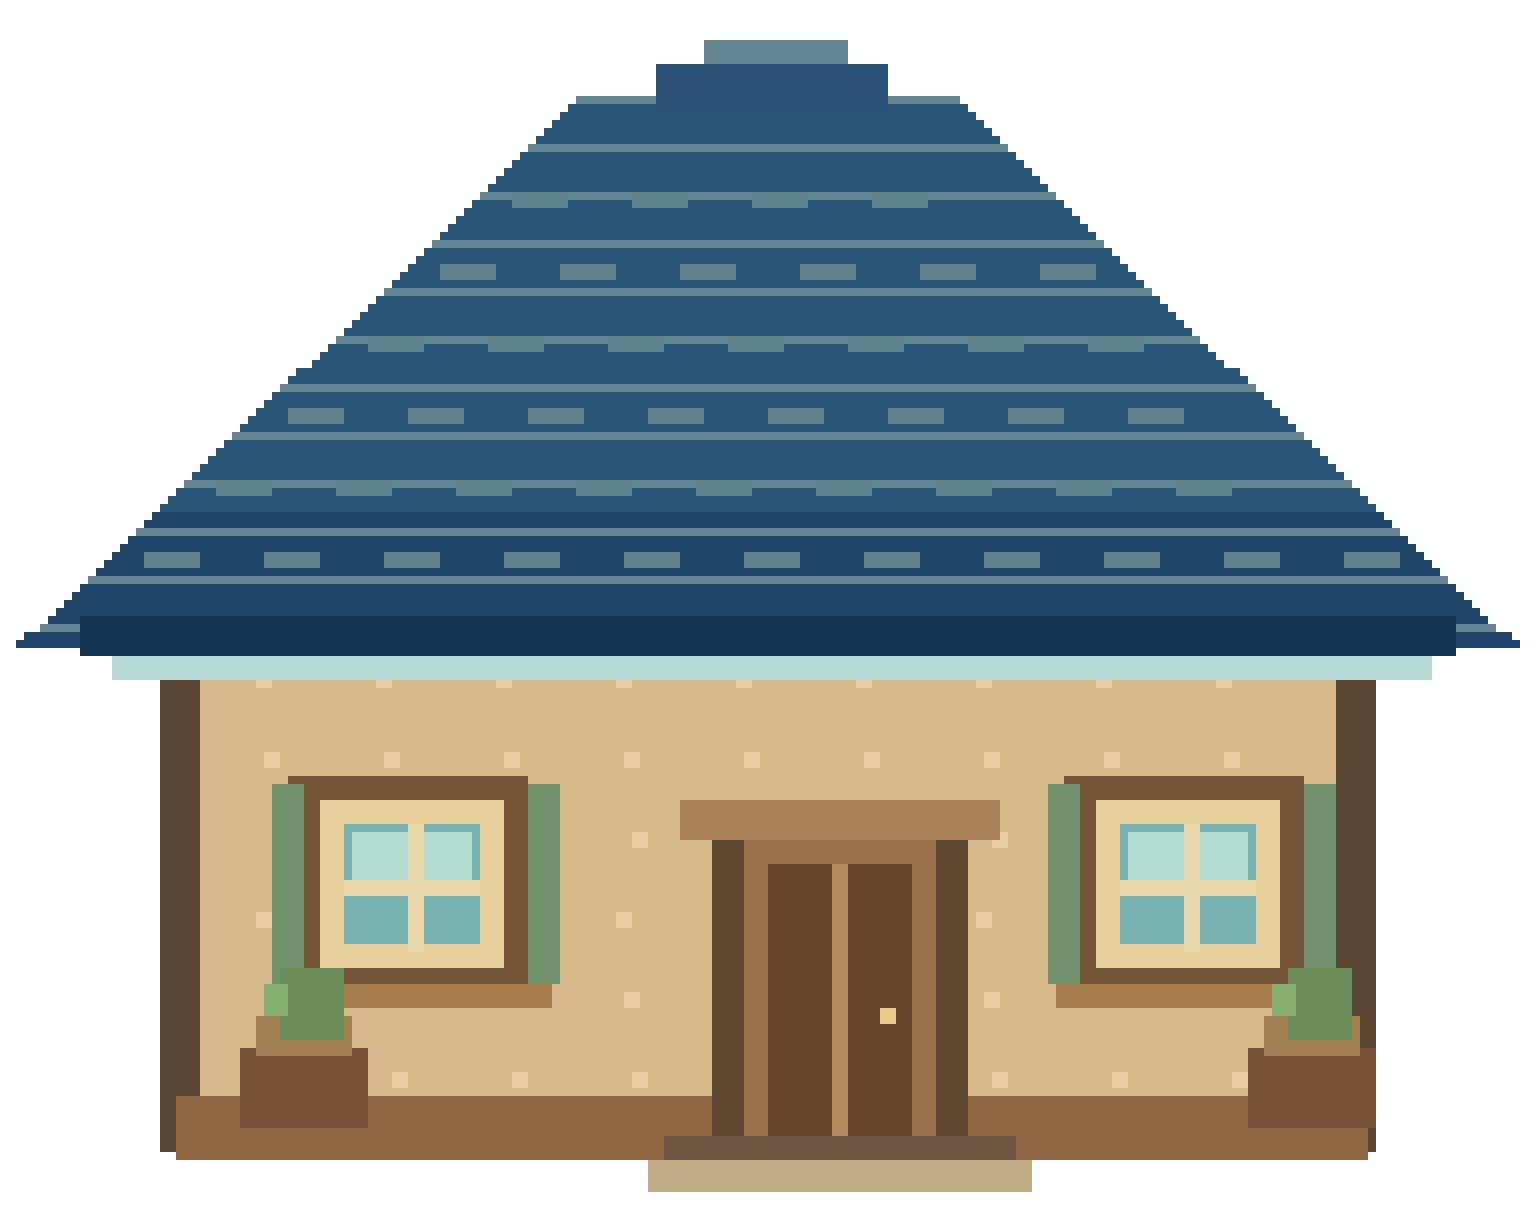
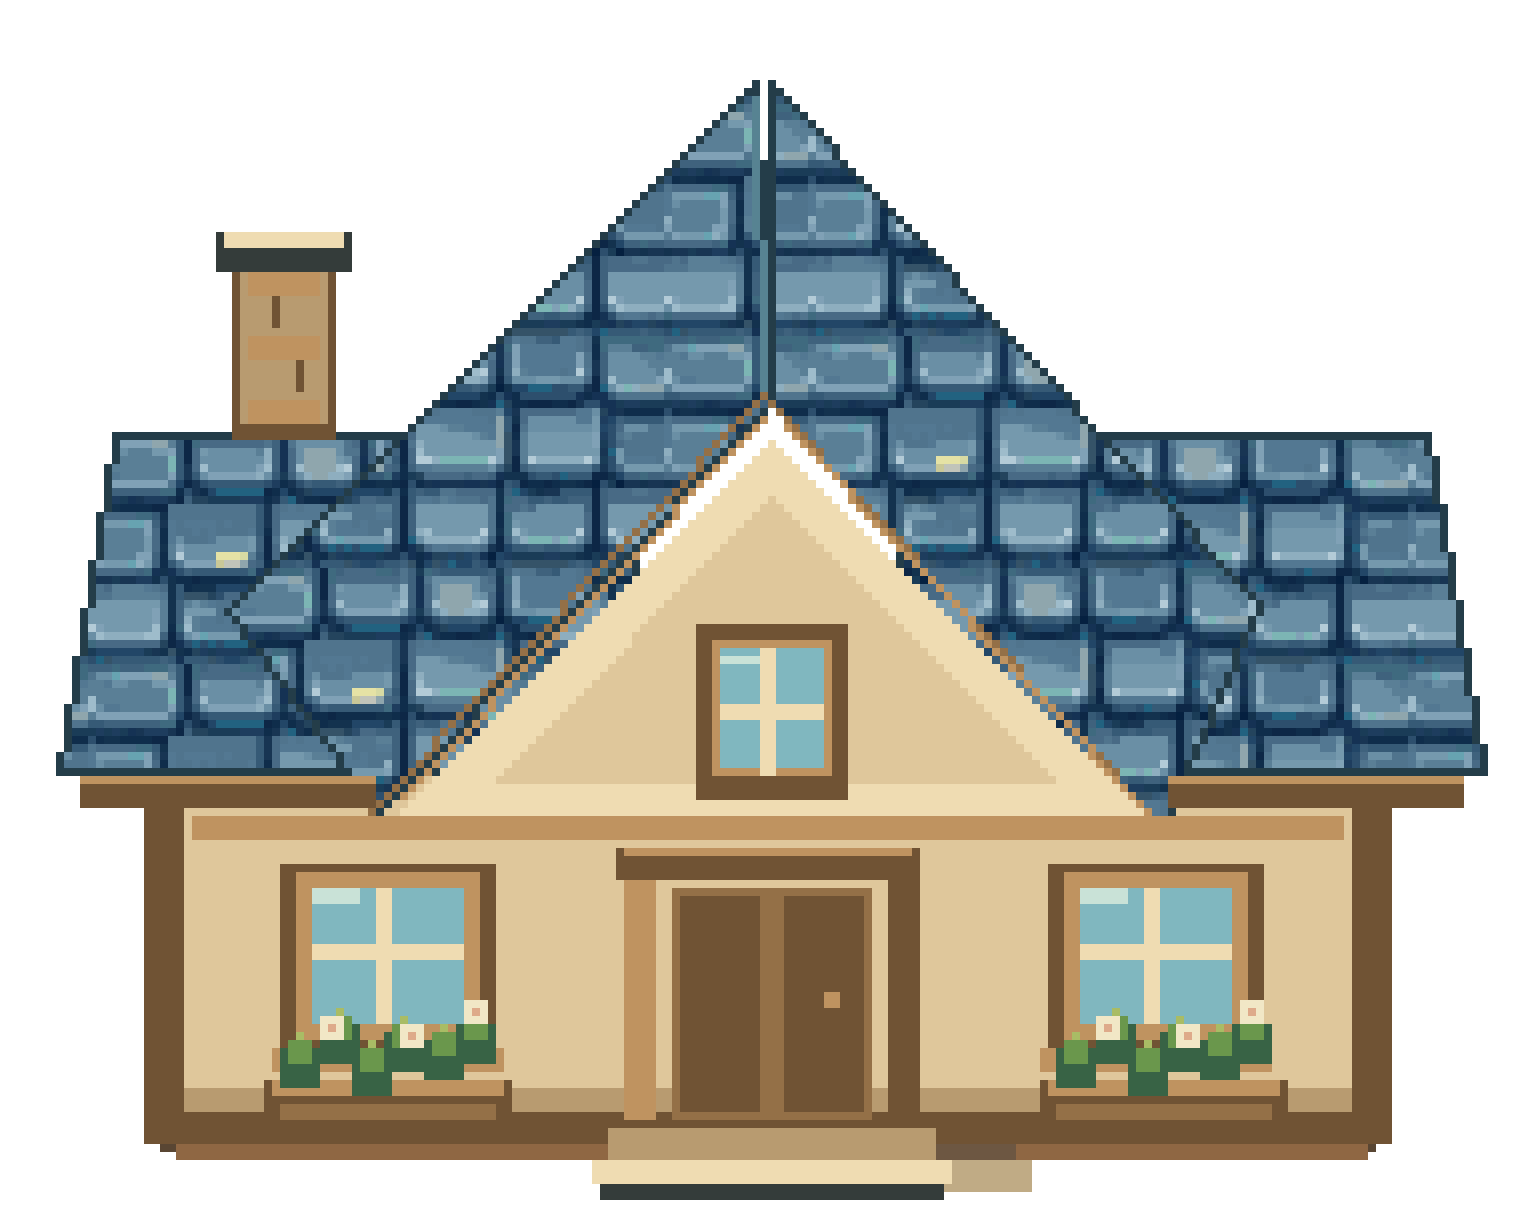
art(ch1): refine farmhouse with native reusable blue-roof pixels

diff --git a/art/sources/chapter1/objects/farmhouse_pixel_refine.js b/art/sources/chapter1/objects/farmhouse_pixel_refine.js
@@ -1,0 +1,51 @@
+// Native LibreSprite pixel edit. Existing Qingfeng well roof is the material
+// donor; all transfers are 1:1 pixels, with hard clipped roof planes.
+const root='';
+app.open(root+'game/assets/chapter1/objects/well.png');
+const donor=sprite.layer(0).cel(0).image;
+const tiles=[];
+for(let y=5;y<34;y++){let row=[];for(let x=11;x<66;x++)row.push(donor.getPixel(x,y));tiles.push(row);}
+app.open(root+'art/sources/chapter1/objects/farmhouse_original.png');
+const im=sprite.layer(0).cel(0).image;
+const pc=app.pixelColor;
+function ink(hex){let s=hex.replace('#','');return pc.rgba(parseInt(s.slice(0,2),16),parseInt(s.slice(2,4),16),parseInt(s.slice(4,6),16),255);}
+const pal={shadow:ink('343c3a'),beam:ink('705334'),wood:ink('947047'),edge:ink('bf9360'),cream:ink('dfc79b'),light:ink('efdcb2'),shade:ink('b89b70'),roofdark:ink('243d49'),roofedge:ink('578392'),glass:ink('80b7bf'),glint:ink('c9e2d7'),green:ink('386345'),leaf:ink('6a974c'),leaflit:ink('a9bc65'),flower:ink('f1e7c6'),petal:ink('deaa8a')};
+function px(x,y,c){im.putPixel(x,y,c);}
+function rect(x,y,w,h,c){for(let yy=y;yy<y+h;yy++)for(let xx=x;xx<x+w;xx++)px(xx,yy,c);}
+function line(x0,y0,x1,y1,c){let dx=Math.abs(x1-x0),sx=x0<x1?1:-1,dy=-Math.abs(y1-y0),sy=y0<y1?1:-1,e=dx+dy;while(true){px(x0,y0,c);if(x0===x1&&y0===y1)break;let e2=2*e;if(e2>=dy){e+=dy;x0+=sx;}if(e2<=dx){e+=dx;y0+=sy;}}}
+function inside(x,y,pts){let c=false;for(let i=0,j=pts.length-1;i<pts.length;j=i++){let a=pts[i],b=pts[j];if((a[1]>y)!=(b[1]>y)&&x<(b[0]-a[0])*(y-a[1])/(b[1]-a[1])+a[0])c=!c;}return c;}
+function poly(pts,c){for(let y=0;y<152;y++)for(let x=0;x<192;x++)if(inside(x,y,pts))px(x,y,c);}
+function roof(pts,ox,oy){for(let y=0;y<110;y++)for(let x=0;x<192;x++)if(inside(x,y,pts))px(x,y,tiles[((y-oy)%29+29)%29][((x-ox)%55+55)%55]);for(let n=0;n<pts.length;n++){let a=pts[n],b=pts[(n+1)%pts.length];line(a[0],a[1],b[0],b[1],pal.roofdark);}}
+// Recompose the oversized single triangle as side wings and a central gable.
+rect(0,0,192,92,0);
+poly([[18,82],[174,82],[174,141],[18,141]],pal.cream);
+rect(18,91,156,6,pal.shade);
+roof([[14,54],[79,54],[79,96],[7,96]],11,54);
+roof([[112,54],[178,54],[185,96],[112,96]],11,54);
+// Two intentionally drawn native planes, no resize/filter/noise.
+roof([[94,10],[96,50],[47,101],[28,76]],28,13);
+roof([[96,10],[157,75],[145,103],[96,50]],101,13);
+poly([[96,54],[48,103],[144,103]],pal.light);
+poly([[96,61],[61,98],[132,98]],pal.cream);
+line(94,12,95,48,pal.roofedge);line(95,49,46,101,pal.wood);line(96,50,145,103,pal.wood);
+line(95,52,50,99,pal.edge);line(98,53,143,101,pal.edge);
+rect(10,97,37,4,pal.beam);rect(146,97,37,4,pal.beam);
+rect(10,97,37,1,pal.edge);rect(146,97,37,1,pal.edge);
+// Attic sash, shaped eaves and timbers give a readable front silhouette.
+rect(87,78,19,22,pal.beam);rect(89,80,15,17,pal.edge);rect(90,81,13,15,pal.glass);
+rect(95,81,2,16,pal.light);rect(90,88,13,2,pal.light);line(90,82,94,82,pal.glint);
+rect(18,101,5,39,pal.beam);rect(169,101,5,39,pal.beam);rect(24,102,144,3,pal.edge);
+rect(18,139,156,4,pal.beam);rect(23,136,146,3,pal.shade);
+// Preserve the exact existing door opening/foot anchor; add framed windows.
+function windowAt(x){rect(x,108,27,26,pal.beam);rect(x+2,109,23,21,pal.edge);rect(x+4,111,19,17,pal.glass);rect(x+12,111,2,17,pal.light);rect(x+4,118,19,2,pal.light);rect(x+4,111,6,2,pal.glint);rect(x-1,131,29,3,pal.edge);}
+windowAt(35);windowAt(131);
+rect(77,106,38,4,pal.beam);rect(78,106,36,1,pal.edge);rect(78,110,4,30,pal.edge);rect(111,110,4,30,pal.beam);
+rect(84,111,25,29,pal.wood);rect(85,112,10,27,pal.beam);rect(98,112,10,27,pal.beam);rect(103,124,2,2,pal.edge);
+rect(76,141,41,4,pal.shade);rect(74,145,45,3,pal.light);rect(75,148,43,2,pal.shadow);
+function planter(x){rect(x,135,31,6,pal.beam);rect(x+1,135,29,2,pal.edge);rect(x+2,138,27,2,pal.wood);for(const o of [[2,-2],[7,-5],[11,-1],[15,-4],[20,-3],[24,-5]]){rect(x+o[0],133+o[1],5,5,pal.green);rect(x+o[0]+1,132+o[1],3,3,pal.leaf);px(x+o[0]+2,131+o[1],pal.leaflit);}for(const o of [[7,127],[17,128],[25,125]]){rect(x+o[0],o[1],3,3,pal.flower);px(x+o[0]+1,o[1]+1,pal.petal);}}
+planter(33);planter(130);
+// Stone-capped brick chimney is a separate readable high point.
+rect(29,32,13,23,pal.beam);rect(30,33,11,20,pal.shade);rect(31,34,9,3,pal.edge);rect(31,42,9,3,pal.edge);rect(31,50,9,3,pal.edge);line(34,37,34,40,pal.beam);line(37,45,37,48,pal.beam);rect(27,29,17,5,pal.shadow);rect(28,29,15,2,pal.light);
+sprite.saveAs('art/sources/chapter1/objects/farmhouse_pixel_refine.aseprite',false);
+sprite.saveAs('art/sources/chapter1/objects/farmhouse_blue.png',true);
+console.log('FARMHOUSE_NATIVE_DETAIL_DONE');

diff --git a/art/sources/chapter1/objects/derive_farm_objects.py b/art/sources/chapter1/objects/derive_farm_objects.py
@@ -4,10 +4,10 @@ import hashlib,json
 src=Path('art/sources/chapter1/objects');dest=Path('game/assets/chapter1/objects');rev=Path('art/reviews/chapter1/objects');p=dest/'object_metadata.json';meta=json.loads(p.read_text());meta['assets']=[a for a in meta['assets'] if a['asset_id'] not in ['asset.object.chapter1.farmhouse_blue','asset.object.chapter1.chicken_coop','asset.object.chapter1.wood_sign']]
 for name,original,job in [('farmhouse_blue','farmhouse_original.png','e321013e-69b9-49ff-bfe7-838ccd8972a5'),('chicken_coop','doghouse_generated.png','bcc45a5e-46ec-4cf3-a1ed-54bb21def8c0')]:
  im=Image.open(src/f'{name}.png').convert('RGBA');im.save(dest/f'{name}.png');w,h=im.size
- row={'asset_id':f'asset.object.chapter1.{name}','runtime_path':str(dest/f'{name}.png'),'source_path':str(src/f'{name}.png'),'source_sha256':hashlib.sha256((src/f'{name}.png').read_bytes()).hexdigest(),'sha256':hashlib.sha256((dest/f'{name}.png').read_bytes()).hexdigest(),'size_px':[w,h],'anchor_px':[96,149] if name=='farmhouse_blue' else [w//2,h-2],'original_source_path':str(src/original),'original_source_sha256':hashlib.sha256((src/original).read_bytes()).hexdigest(),'pixel_tool_id':job,'review_status':'proposed','reviewer':None,'usage':'environment_only','world_scale':1,'license_note':'Derived project original/PixelLab source; exact native free pixelart_workbench edits','drive_url':None,'processing':'blue roof palette mapping only within y0..84' if name=='farmhouse_blue' else 'kennel shell reused; half-door rail and 3 vent slats, exact native brush editing'}
+ row={'asset_id':f'asset.object.chapter1.{name}','runtime_path':str(dest/f'{name}.png'),'source_path':str(src/f'{name}.png'),'source_sha256':hashlib.sha256((src/f'{name}.png').read_bytes()).hexdigest(),'sha256':hashlib.sha256((dest/f'{name}.png').read_bytes()).hexdigest(),'size_px':[w,h],'anchor_px':[96,149] if name=='farmhouse_blue' else [w//2,h-2],'original_source_path':str(src/original),'original_source_sha256':hashlib.sha256((src/original).read_bytes()).hexdigest(),'pixel_tool_id':job,'review_status':'proposed','reviewer':None,'usage':'environment_only','world_scale':1,'license_note':'Derived project original/PixelLab source; exact native free pixelart_workbench edits','drive_url':None,'processing':'LibreSprite native compound-gable refinement; see farmhouse_pixel_refine.js and editable ASE source' if name=='farmhouse_blue' else 'kennel shell reused; half-door rail and 3 vent slats, exact native brush editing'}
  if name=='farmhouse_blue':
-  old=Image.open(src/original).convert('RGBA'); assert old.crop((0,85,192,152)).tobytes()==im.crop((0,85,192,152)).tobytes();assert old.getchannel('A').tobytes()==im.getchannel('A').tobytes();split=85
-  row['validation']='all pixels y85..151 and full alpha exactly unchanged from Phase0'
+  assert im.size == (192,152); assert set(im.getchannel('A').getdata()) == {0,255}; split=104
+  row['validation']='native LibreSprite refinement, same canvas/anchor and binary alpha; layers recompose exactly'
  else:split=42
  back=im.copy();front=im.copy();back.paste((0,0,0,0),(0,0,w,split));front.paste((0,0,0,0),(0,split,w,h));back.save(dest/f'{name}_body.png');front.save(dest/f'{name}_roof.png');assert Image.alpha_composite(back,front).tobytes()==im.tobytes();row['layers']={'body':str(dest/f'{name}_body.png'),'roof':str(dest/f'{name}_roof.png')};row['layer_split_y_px']=split
  im.resize((w*8,h*8),Image.Resampling.NEAREST).save(rev/f'{name}_8x.png');meta['assets'].append(row)

diff --git a/art/reviews/chapter1/objects/farmhouse_native_refine.md b/art/reviews/chapter1/objects/farmhouse_native_refine.md
@@ -1,0 +1,15 @@
+# Native farmhouse material refinement (candidate)
+
+Native tool: official LibreSprite 1.3 Linux release, https://github.com/LibreSprite/LibreSprite/releases/tag/v1.3. No paid generation, no whole-map image generation, no resampling.
+
+`art/sources/chapter1/objects/farmhouse_pixel_refine.js` rebuilds the editable `.aseprite` and canonical `farmhouse_blue.png` from the preserved original farmhouse plus this project's existing PixelLab well PNG. It transfers the well's blue roof pixels at 1:1, clips intentional compound gable/wing planes, and uses native pixel strokes for façade timber, attic sash, planters and chimney. PixelLab provenance of the donor stays in `object_metadata.json`; this edit is not a new PixelLab generation and has no invented job ID.
+
+From repository root:
+
+```
+LibreSprite --batch --script art/sources/chapter1/objects/farmhouse_pixel_refine.js
+```
+
+Actual command exited 0 and printed FARMHOUSE_NATIVE_DETAIL_DONE. Native source is 192×152, anchor remains (96,149), alpha is exactly {0,255}; world scale remains 1. Pillow was used only for deterministic body/roof separation at scanline 104, binary-alpha/hash verification and the 8× nearest preview, not to draw the asset. Body+roof recomposes byte-for-byte to the full PNG.
+
+Godot 4.7.2 imported it without ERROR (isolated writable XDG directories), and rendered it in all three requested window sizes. The new source keeps the same canonical asset ID. It is proposed, not accepted; final user visual approval remains pending. The adjacent yard-native screenshots also include the separately recorded layout changes and must not be read as this art commit alone.
